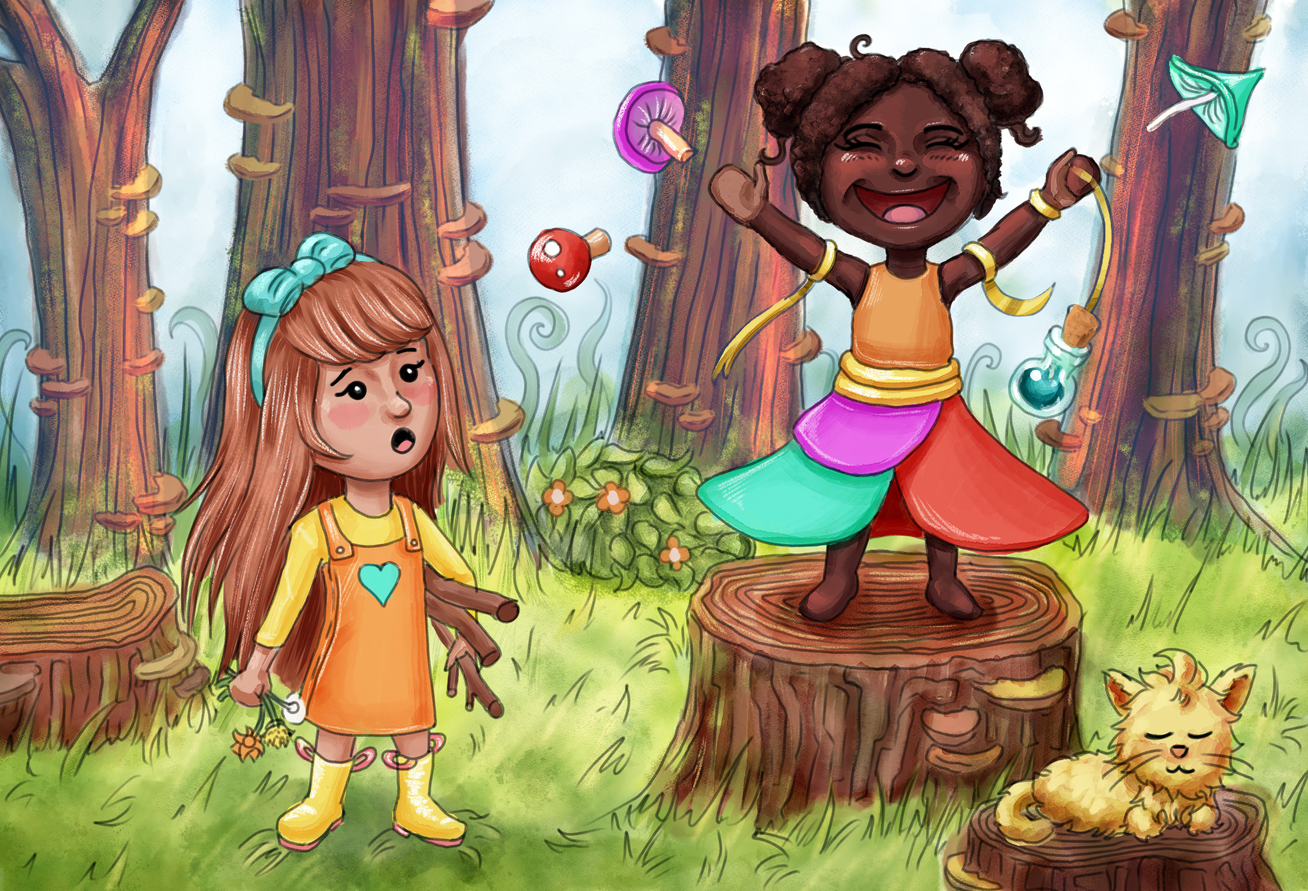
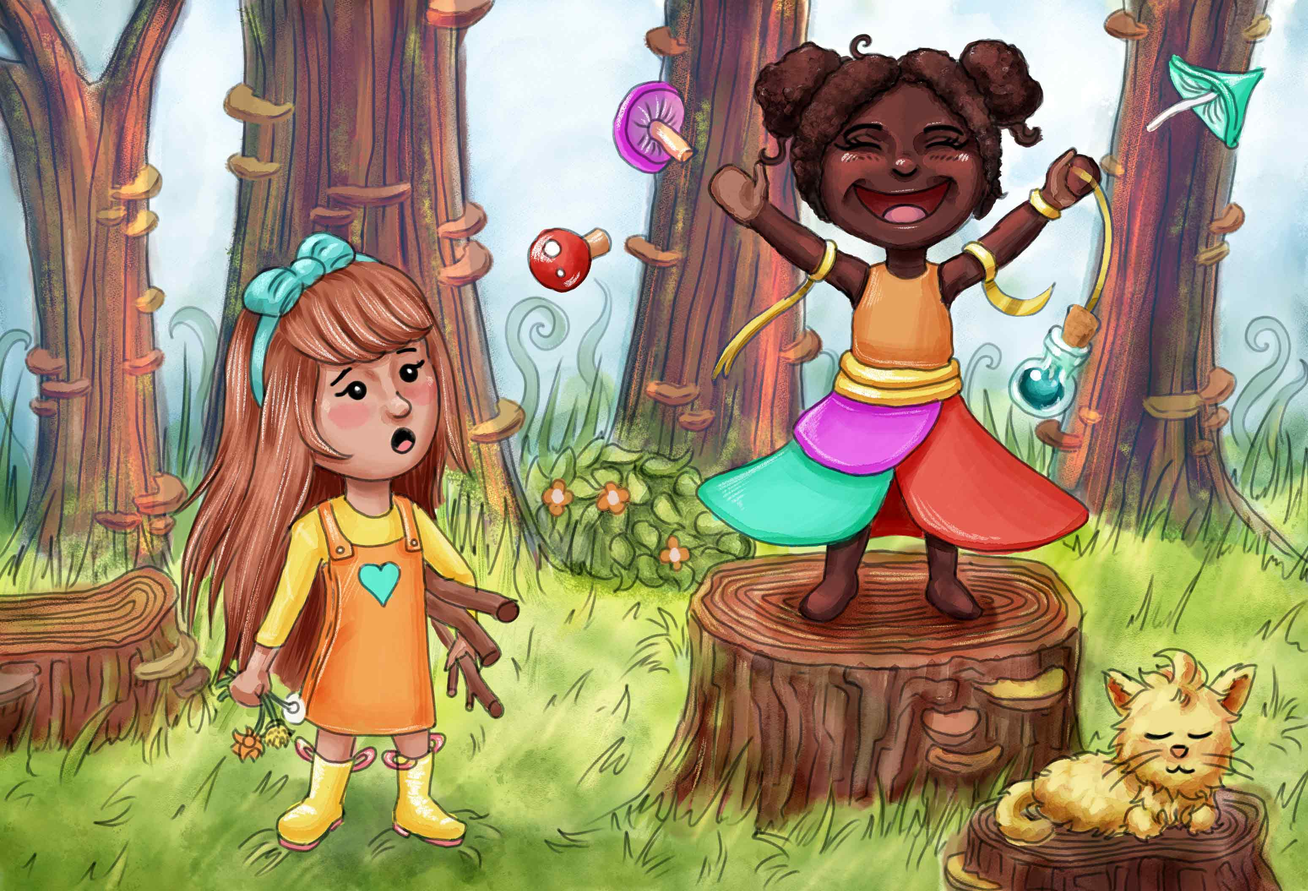
reduced image sizes

diff --git a/src/pages/index.js b/src/pages/index.js
@@ -8,7 +8,7 @@ import Darla1 from '../images/Darla1.jpg'
 import Darla2 from '../images/Darla2.jpg'
 import Darla3 from '../images/Darla3.jpg'
 import MadelineParadise from '../images/MadelineParadise.jpg'
-import MaxineDreams from '../images/MaxineDreams.png'
+import MaxineDreams from '../images/MaxineDreams.jpg'
 import Theresa from '../images/Theresa.jpg'
 import IsolatedFears from '../images/isolatedFears.jpg';
 import FS01 from '../images/FS01.jpg';
